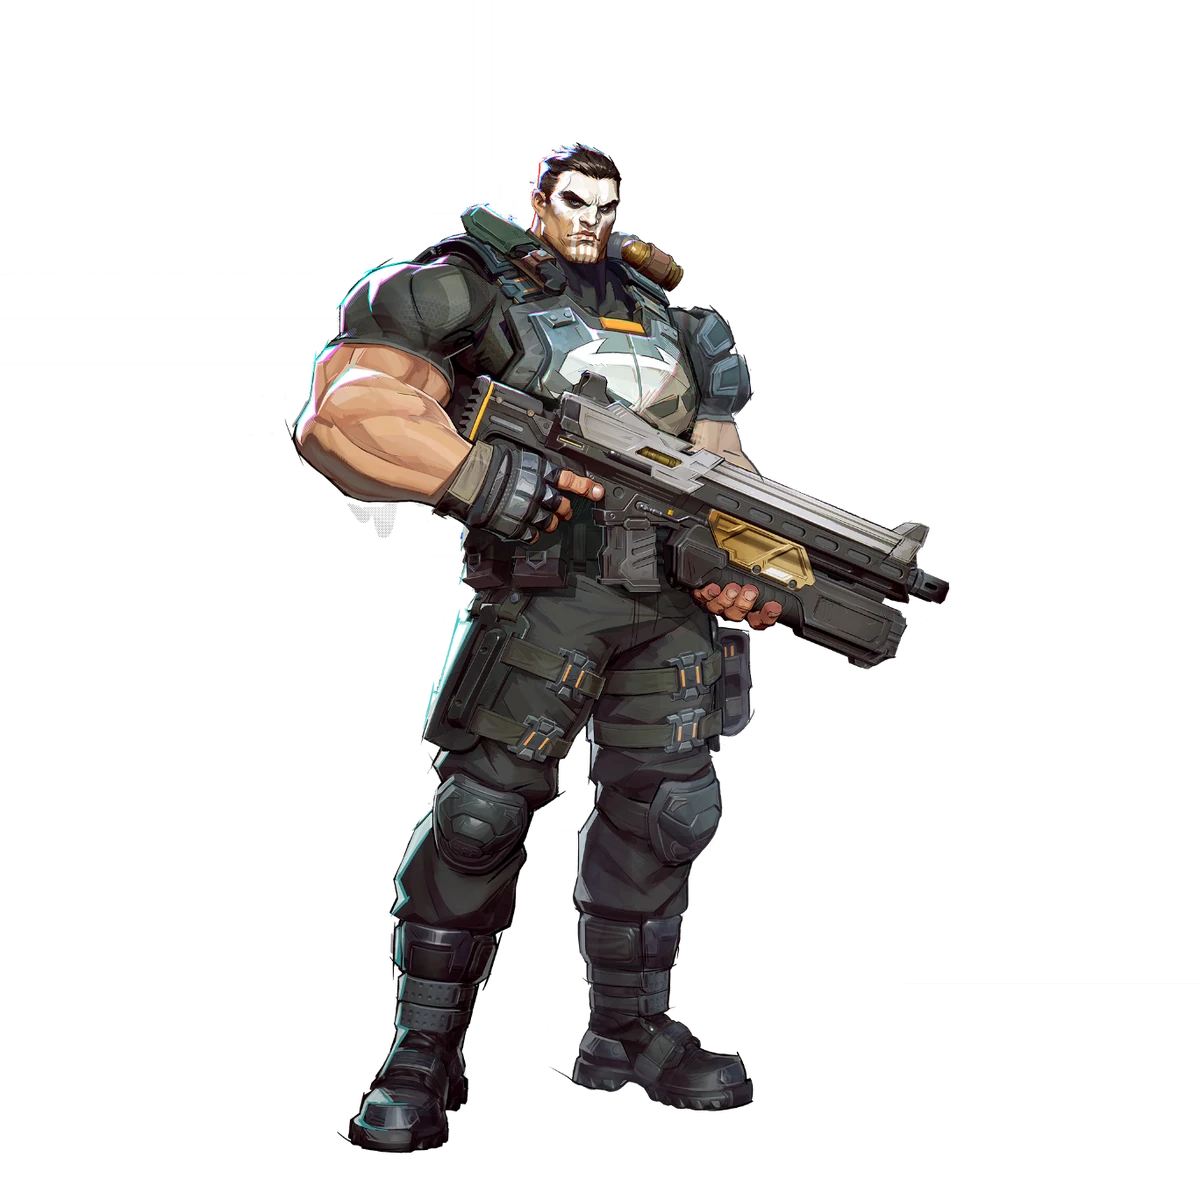
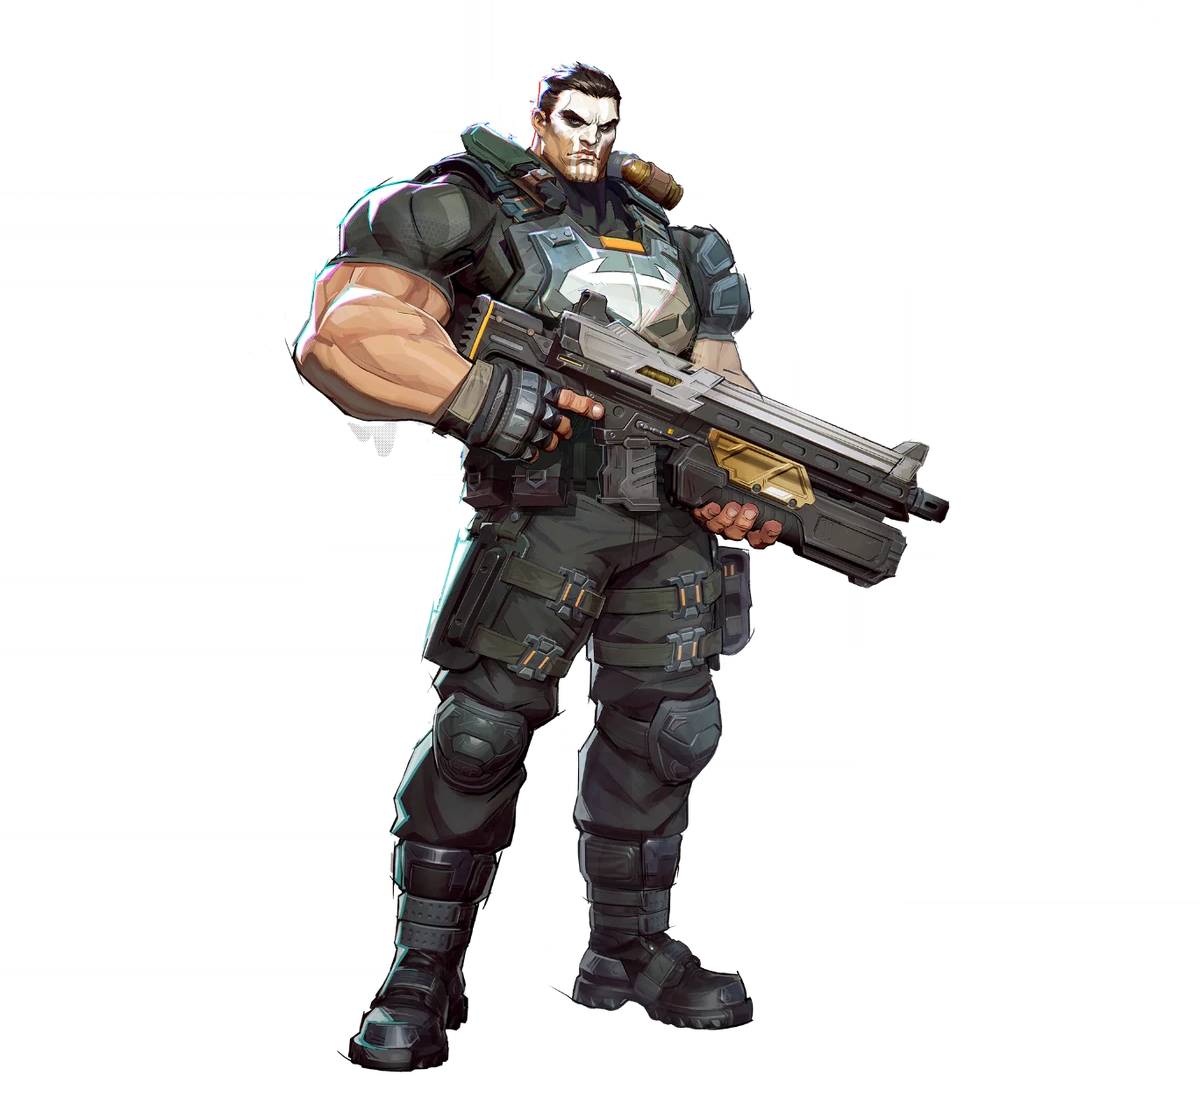
Updated styling for hero.php

Changed region(s): [[0.2467, 0.0608, 0.8017, 0.9723]]

diff --git a/style.css b/style.css
@@ -48,7 +48,7 @@ body {
     overflow-y: scroll;
 }
 
-.hero-grid {
+.hero-grid, .appears-grid {
     display: flex;
     flex-wrap: wrap;
     gap: 16px;
@@ -59,7 +59,7 @@ body {
     display: flex;
     flex-direction: column;
     align-items: center;
-    width: 150px;
+    width: 200px;
     background-color: #fadb2b;
     border-radius: 8px;
     border: 2px solid black;
@@ -71,7 +71,7 @@ body {
 
 .hero-card img {
     width: 100%;
-    height: 200px;
+    height: 300px;
     object-fit: cover; 
     object-position: top;
     display: block;
@@ -90,6 +90,79 @@ body {
 }
 .hero-banner, .appearances {
     text-align: center;
+}
+
+#name, #real-name, #role {
+    font-family: "Lexend", sans-serif;
+    color: white;
+    text-shadow: 6px 4px 2px black;
+    -webkit-text-stroke: 6px black;
+    paint-order: stroke fill;
+}
+
+#real-name, #role {
+    margin-top: 5px;
+    font-family: "Contrail One", sans-serif;
+}
+
+#role {
+    font-family: Calibri, 'Trebuchet MS', sans-serif;
+    font-size: 20px;
+    margin-bottom: 5px;
+}
+
+.appearances h2 {
+    font-family: Calibri, 'Trebuchet MS', sans-serif;
+    font-size: 30px;
+    font-style: italic;
+    text-decoration: underline;
+    color: white;
+    margin-top: 5px;
+    -webkit-text-stroke: 6px black;
+    paint-order: stroke fill;
+}
+
+.comic-card {
+    padding-top: 10px;
+    border: 2px solid black;
+    border-radius: 8px;
+    background-color: #fadb2b;
+    
+}
+#comic-cover, #media-cover {
+    box-shadow: 4px 4px 6px black;
+    margin-bottom: 5px;
+}
+
+#comic-title, #media-title {
+    font-family: "Contrail One", sans-serif;
+    color: white;
+    -webkit-text-stroke: 6px black;
+    paint-order: stroke fill;
+}
+
+#bio, #comic-desc, #media-desc {
+    margin-top: 5px;
+    margin-left: auto;
+    margin-right: auto;
+    font-family:'Lucida Sans', 'Lucida Sans Regular', 'Lucida Grande', 'Lucida Sans Unicode', Geneva, Verdana, sans-serif;
+    font-size: 18px;
+    font-weight: bold;
+    color: white;
+    -webkit-text-stroke: 4px black;
+    paint-order: stroke fill;
+    max-width: 600px;
+}
+
+#comic-desc, #media-desc {
+    max-width: 200px;
+    margin-left: auto;
+    margin-right: auto;
+    margin-bottom: 5px;
+    font-size: 18px;
+    color: white;
+    font-weight: normal;
+
 }
 
 .footer {

diff --git a/hero.php b/hero.php
@@ -6,7 +6,7 @@
     <link rel="stylesheet" href="style.css">
     <link rel="preconnect" href="https://fonts.googleapis.com">
     <link rel="preconnect" href="https://fonts.gstatic.com" crossorigin>
-    <link href="https://fonts.googleapis.com/css2?family=Lexend:wght@100..900&family=Odibee+Sans&display=swap" rel="stylesheet">
+    <link href="https://fonts.googleapis.com/css2?family=Contrail+One&family=Lexend:wght@100..900&family=Odibee+Sans&display=swap" rel="stylesheet">
 </head>
 
 <body>
@@ -32,9 +32,11 @@
         </div>
         
         <div class="hero-banner-info">
-            <h1 id="name"> <?= $hero['name']?> </h1>
+            <h1 id="name" style="color: <?= $hero['color'] ?>">
+                <?= $hero['name']?>
+            </h1>
             <h2 id="real-name"> <?= $hero['real_name']?> </h2>
-            <h3 id="role"> <?= $hero['role']?> </h3>
+            <h3 id="role" style="color: gray"> <?= $hero['role']?> </h3>
             <p id="bio"> <?= $hero['bio']?> </p>
         </div>
     </section>
@@ -42,27 +44,42 @@
     <section class="appearances">
         <h2> Appears in: </h2>
 
-        <div class="comics">
-            <?php foreach($hero['comics'] as $comic): ?>
-                <a 
-                    href="<?= $comic['link']?>" target="_blank"> 
-                    <h3 class="comic-title"> <?= $comic['title'] ?> </h3>
-                </a>
-                
-                <p> <?= $comic['description'] ?></p>
+        <div class="appears-grid">
+            <div class="comics">
+                <?php foreach($hero['comics'] as $comic): ?>
 
-            <?php endforeach; ?>
+                    <div class="comic-card"> 
+                        <a 
+                            href="<?= $comic['link']?>" target="_blank"> 
+                            <img id="comic-cover" src="<?= $comic['cover'] ?>" alt="" height="300px">
+                            <h3 id="comic-title" style="color: <?= $hero['color'] ?>">
+                                <?= $comic['title'] ?> 
+                            </h3>
+                        </a>
+                    
+                        <p id="comic-desc"> <?= $comic['description'] ?></p>
+                    </div>
 
-            <?php foreach($hero['entertainment'] as $media): ?>
-                <a
-                    href="<?= $media['link']?>" target="_blank">
-                    <h3 class="media-title"> <?= $media['title'] ?> </h3>
-                </a>
+                <?php endforeach; ?>
 
-                <p> <?= $media['description'] ?></p>
-            <?php endforeach; ?>
-    </div>
-</section>
+                <?php foreach($hero['entertainment'] as $media): ?>
+                    <div class="media-card">
+                        <a
+                            href="<?= $media['link']?>" target="_blank">
+                            <img id="media-cover" src="<?= $media['cover'] ?>" alt="" height="300px">
+                            <h3 id="media-title" style="color: <?= $hero['color'] ?>">
+                                <?= $media['title'] ?> 
+                            </h3>
+                        </a>
+
+                        <p id="media-desc"> <?= $media['description'] ?></p>
+                    </div>
+                    
+                <?php endforeach; ?>
+            </div>
+        </div>
+        
+    </section>
 
 <?php include "includes/footer.php"; ?>
 </body>

diff --git a/index.php b/index.php
@@ -7,7 +7,7 @@
         <link rel="stylesheet" href="style.css">
         <link rel="preconnect" href="https://fonts.googleapis.com">
         <link rel="preconnect" href="https://fonts.gstatic.com" crossorigin>
-        <link href="https://fonts.googleapis.com/css2?family=Lexend:wght@100..900&family=Odibee+Sans&display=swap" rel="stylesheet">
+        <link href="https://fonts.googleapis.com/css2?family=Contrail+One&family=Lexend:wght@100..900&family=Odibee+Sans&display=swap" rel="stylesheet">
     </head>
 
     <body>
@@ -22,16 +22,14 @@
             <?php foreach($heroes as $id => $hero): ?>
 
             <a href="hero.php?id=<?= $id ?>" class="hero-card"
-            data-name="<?=$hero['name'] ?>"
-            data-role="<?= $hero['role'] ?>">
+                data-name="<?=$hero['name'] ?>"
+                data-role="<?= $hero['role'] ?>">
 
-            <div class="hero-image">
-                <img src="<?=$hero['image'] ?>" alt="<?=$hero['name']?>" width="300px" height="300px">
-            </div>
-            
-            <p class="hero-name"> <?= $hero['name'] ?> </p>
-            
-
+                <div class="hero-image">
+                    <img src="<?=$hero['image'] ?>" alt="<?=$hero['name']?>" width="300px" height="300px">
+                </div>
+                
+                <p class="hero-name"> <?= $hero['name'] ?> </p>
             </a>
             <?php endforeach; ?>
         </div>